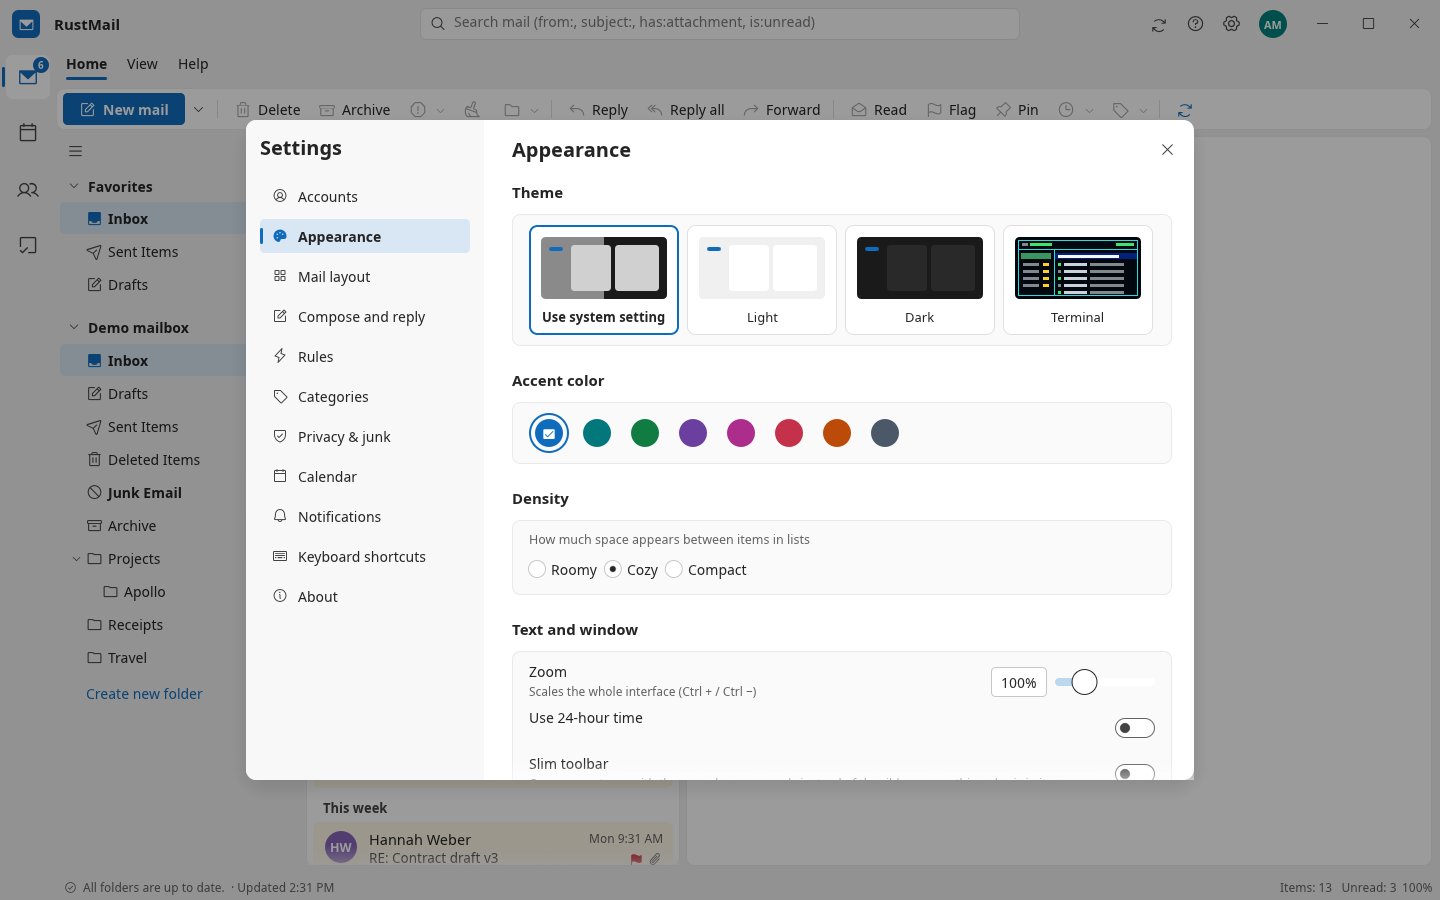
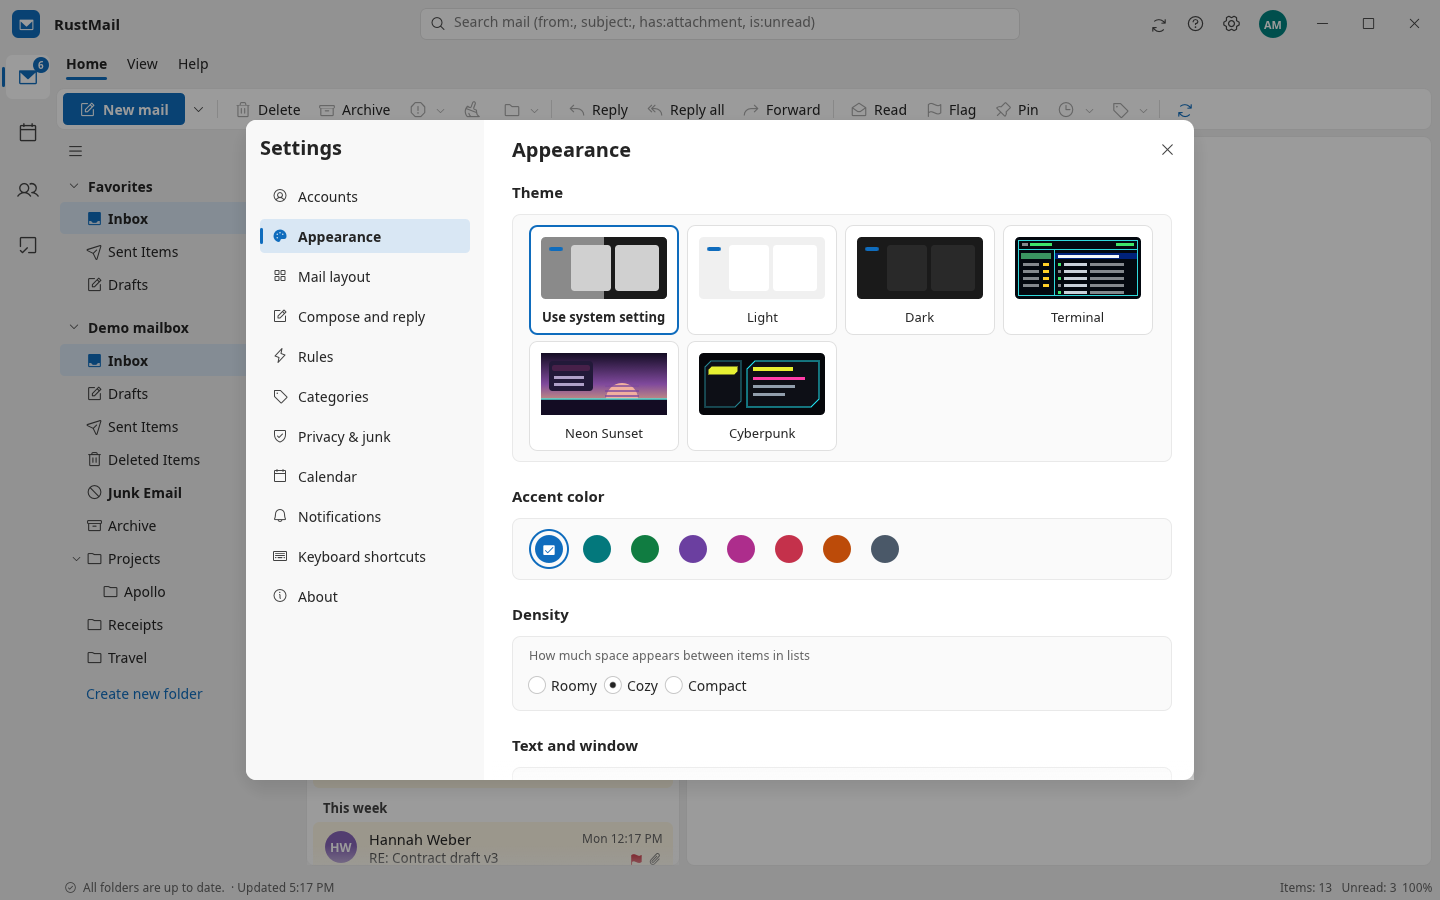
Describe the Neon Sunset and Cyberpunk themes in the README
A section with a screenshot of each theme, the --theme options, and the
Settings screenshot taken again to show the six theme cards.

Claude-Session: https://claude.ai/code/session_01UMYNccoTsJ1tSxHxSTqbiX

diff --git a/README.md b/README.md
@@ -109,8 +109,8 @@ suggested contacts collected from mail you send; vCard import/export.
 **To Do** — My Day, Important, Planned, Flagged email (completing one clears the flag),
 custom lists, due dates, reminders and notes.
 
-**Look and feel** — light / dark / system theme, a **Terminal** theme (see below), eight
-accent colours, Compact / Cozy / Roomy density, an optional **slim toolbar** (see below), zoom (Ctrl +/−), 12/24-hour time, modern title bar with search (or native
+**Look and feel** — light / dark / system theme, **Terminal**, **Neon Sunset** and
+**Cyberpunk** themes (see below), eight accent colours, Compact / Cozy / Roomy density, an optional **slim toolbar** (see below), zoom (Ctrl +/−), 12/24-hour time, modern title bar with search (or native
 window decorations), resizable panes that remember their size.
 
 ### Slim toolbar
@@ -147,6 +147,26 @@ have room; View → Layout moves it back. The theme has its own colours, so the 
 colour setting doesn't apply to it.
 
 ![Slim toolbar with its menu open](docs/screenshots/slim.png)
+
+### Neon Sunset and Cyberpunk themes
+
+Two more themes with colours of their own (Settings → Appearance, View → Theme, or
+`--theme sunset` / `--theme cyberpunk`):
+
+| | |
+|---|---|
+| ![Neon Sunset theme](docs/screenshots/neon-sunset.png) | ![Cyberpunk theme](docs/screenshots/cyberpunk.png) |
+
+- **Neon Sunset** is a synthwave dusk: calm indigo panes for reading, a striped retro sun
+  and a glowing pink-to-gold horizon in the title bar, buttons and tabs that fade from hot
+  pink into sunset orange, and teal links.
+- **Cyberpunk** is near-black with acid yellow, electric cyan and hot magenta: panels with
+  cut corners and a lit yellow bracket, a magenta outline on the selection, neon edges
+  instead of shadows, and a glitched wordmark.
+
+Every text colour in both meets the WCAG AA contrast guideline, so they stay readable
+through a day of mail. Like Terminal, they have their own colours, so the accent colour
+setting doesn't apply to them.
 
 ## Keyboard shortcuts
 
@@ -203,7 +223,7 @@ username = "jane@example.com"
 ```
 
 Command-line options: `--demo`, `--data-dir DIR`, `--module mail|calendar|people|todo`,
-`--theme light|dark|terminal`, `--wizard`, `--add-account EMAIL`, `--settings [accounts]`,
+`--theme light|dark|terminal|sunset|cyberpunk`, `--wizard`, `--add-account EMAIL`, `--settings [accounts]`,
 `--google-setup`, `--import-outlook FILE`, `--help`.
 
 ### Google accounts (Gmail, Google Workspace)
